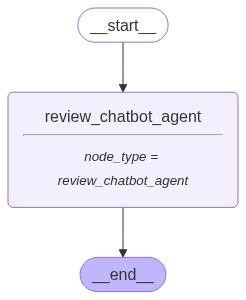
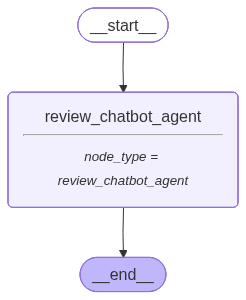
Feat: Tool display event update to display whatsapp messages

diff --git a/pnb/langgraph/sales/agents/sales_chatbot.py b/pnb/langgraph/sales/agents/sales_chatbot.py
@@ -8,6 +8,8 @@ from pnb.langgraph.tools.web_search_tool import web_search_tool
 from pnb.langgraph.tools.real_time_tool import get_system_time
 from pnb.langgraph.tools.md_to_pdf_tool import md_to_pdf_tool
 from pnb.langgraph.tools.imagen_tool import imagen_tool
+from pnb.langgraph.tools.whatsapp_display_tool import whatsapp_display_tool
+from pnb.langgraph.tools.post_jd import post_jd
 from pnb.langgraph.tools.graph_chart_tool import handle_chart
 from pnb.db.data_models.sales.Product import Product
 from pnb.db.data_models.sales.Customer import Customer
@@ -46,6 +48,8 @@ class SalesChatbotagent:
                 handle_email,
                 imagen_tool,
                 handle_chart,
+                whatsapp_display_tool,
+                post_jd,
                 *toolkit.get_tools(),
             ],
             prompt="""
@@ -55,8 +59,10 @@ class SalesChatbotagent:
             2) generate a personalized message for a customer in the data you will receive.
             3) Generate a pdf of the content you have created based on user request.
             4) Create whatsapp messages for the user based on the content you have created.
-            5) Create a mail for the user based on the content you have created - use the HTML template as a default.
-            6) If the query falls outside the sales assistant usecase , you can decline to perform the task. This can include general questions, non sales related questions, etc.
+            5) Display the curated whatsapp message using a specialized tool.
+            6) Create a mail for the user based on the content you have created - use the HTML template as a default.
+            7) Post the text to LinkedIn using a specialized tool.
+            8) If the query falls outside the sales assistant usecase , you can decline to perform the task. This can include general questions, non sales related questions, etc.
 
             **IMPORTANT**: The emails and whatsapp messages you will create (either personalized or generalized) should be
             created by analyzing the customer data from the knowledge graph by using the retriever tool.  
@@ -70,6 +76,8 @@ class SalesChatbotagent:
             6) handle_email: Create a mail for the user based on the content you have created.
             7) imagen_tool: Create an image for the user based on the content you have created.
             8) handle_chart: Create a chart for the user based on the content you have created.
+            9) whatsapp_display_tool: Display a whatsapp curated message for the user based on the content you have created.
+            10) post_jd: Post the text to LinkedIn using a specialized tool.
             
             This is the MONGODB agent toolkit tool usage prompt: {tool_usage_prompt}
             """.format(

diff --git a/pnb/services/generic/generate_chat_response.py b/pnb/services/generic/generate_chat_response.py
@@ -50,8 +50,13 @@ async def generate_chat_responses(
         )
 
     async for event in events:
+        # LOGGER.debug(event)
         event_type = event["event"]
-        if event_type in ["on_tool_end", "on_tool_start"]:
+        if event_type == "on_tool_start":
+            continue
+        if event_type == "on_tool_end":
+            if event["name"] == "whatsapp_display_tool":
+                yield f'data: {{"type": "whatsapp", "content": "{event["data"]["output"].content}"}}\n\n'
             continue
         if event_type == "langgraph_node" and event["langgraph_node"] == "tools":
             continue

diff --git a/pnb/langgraph/tools/whatsapp_display_tool.py b/pnb/langgraph/tools/whatsapp_display_tool.py
@@ -1,0 +1,15 @@
+from langchain.tools import tool
+
+
+@tool
+async def whatsapp_display_tool(markdown_text: str):
+    """
+    Tool used to display a whataspp curated message
+
+    Args:
+        markdown_text (str): The markdown text to display
+
+    Returns:
+        str: The markdown text to display
+    """
+    return markdown_text
